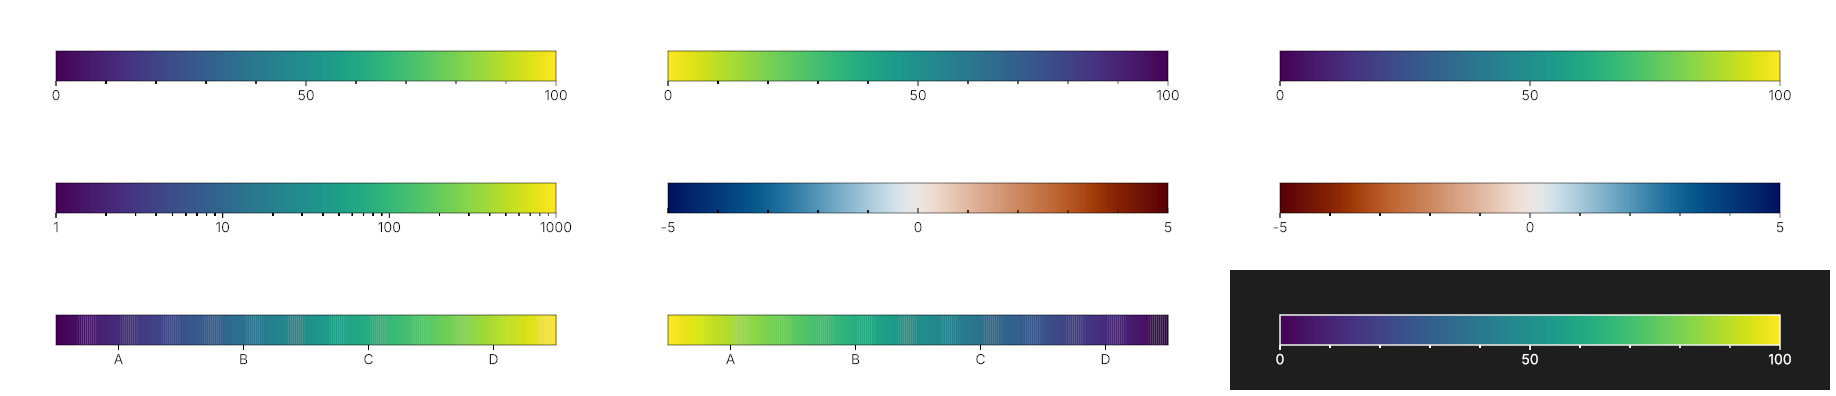
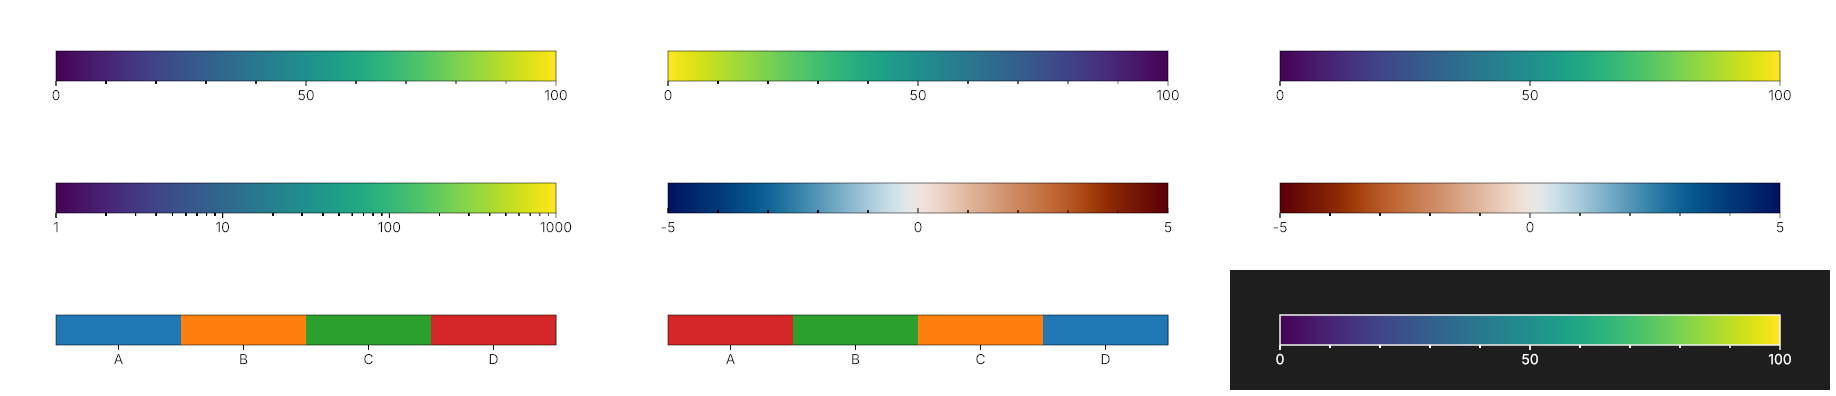
NEW: also show qualitative map in gallery image

Changed region(s): [[0.3415, 0.7879, 0.652, 0.8788], [0.031, 0.7879, 0.3105, 0.8788]]

diff --git a/examples/gallery/main.cpp b/examples/gallery/main.cpp
@@ -98,14 +98,19 @@ int main() {
         render("gallery_05.ppm", spec, style);
     }
 
-    // ---- Panel 6: Categorical, forward ----
+    // ---- Panel 6: Categorical, forward (qualitative colormap) ----
     {
-        auto cmap = util::viridis();
+        std::vector<Color> qual = {
+            Color{ 31, 119, 180, 255}, // blue
+            Color{255, 127,  14, 255}, // orange
+            Color{ 44, 160,  44, 255}, // green
+            Color{214,  39,  40, 255}, // red
+        };
         Spec spec;
-        spec.scale    = Scale{ScaleType::Categorical, 0.0f, 8.0f};
+        spec.scale    = Scale{ScaleType::Categorical, 0.0f, 4.0f};
         spec.title    = "Categorical · forward";
-        spec.colormap = cmap;
-        spec.ticks    = {{1.0f, "A"}, {3.0f, "B"}, {5.0f, "C"}, {7.0f, "D"}};
+        spec.colormap = qual;
+        spec.ticks    = {{0.5f, "A"}, {1.5f, "B"}, {2.5f, "C"}, {3.5f, "D"}};
         auto style = Style::defaultLight();
         style.showSubTicks = false;
         render("gallery_06.ppm", spec, style);
@@ -113,12 +118,17 @@ int main() {
 
     // ---- Panel 7: Categorical, reversed ----
     {
-        auto cmap = util::viridis();
+        std::vector<Color> qual = {
+            Color{ 31, 119, 180, 255},
+            Color{255, 127,  14, 255},
+            Color{ 44, 160,  44, 255},
+            Color{214,  39,  40, 255},
+        };
         Spec spec;
-        spec.scale    = Scale{ScaleType::Categorical, 0.0f, 8.0f};
+        spec.scale    = Scale{ScaleType::Categorical, 0.0f, 4.0f};
         spec.title    = "Categorical · reversed";
-        spec.colormap = cmap;
-        spec.ticks    = {{1.0f, "A"}, {3.0f, "B"}, {5.0f, "C"}, {7.0f, "D"}};
+        spec.colormap = qual;
+        spec.ticks    = {{0.5f, "A"}, {1.5f, "B"}, {2.5f, "C"}, {3.5f, "D"}};
         auto style = Style::defaultLight();
         style.showSubTicks = false;
         style.reverseColors = true;
